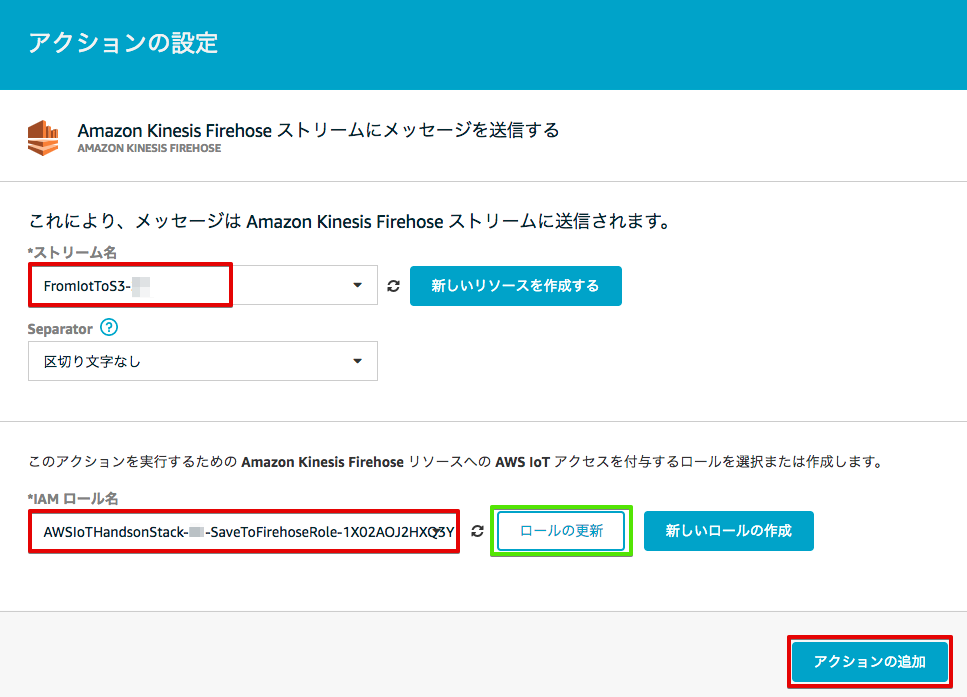
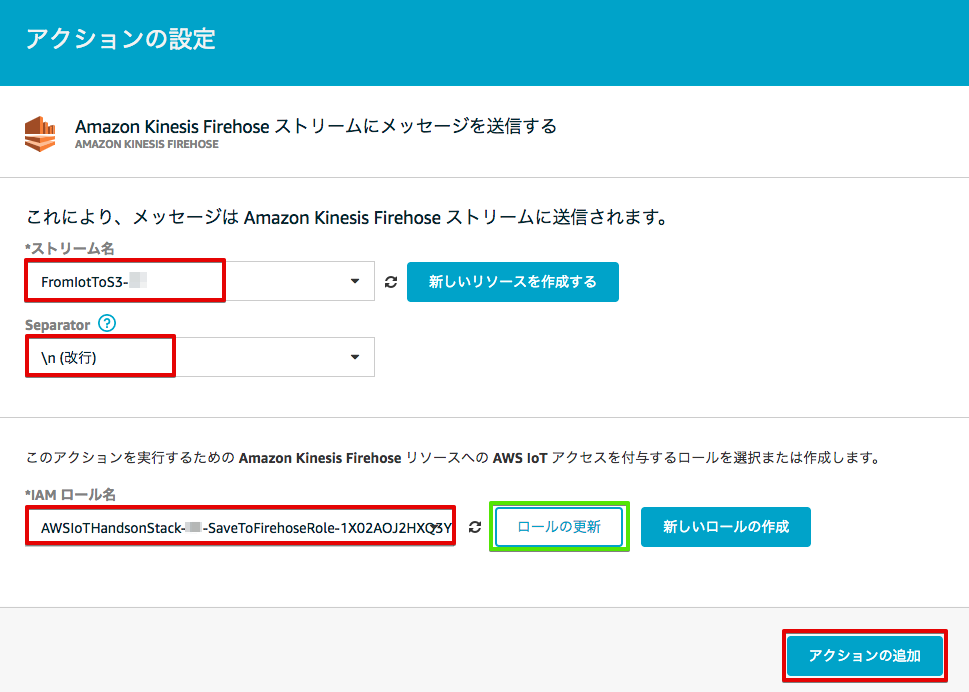
Update

diff --git a/docs/06.rst b/docs/06.rst
@@ -422,6 +422,7 @@ Firehoseに送信するAWS IoT ルールを作成
 設定項目              値
 ===============  ==============================================================================
 ストリーム名	         FromIotToS3-<参加者番号>
+Separator            \\n (改行)
 IAM ロール名          AWSIoTHandsonStack-<参加者番号>-SaveToFirehoseRole-<英数字> (リストから選択)
 ===============  ==============================================================================
 
@@ -451,5 +452,33 @@ S3に保存されたデータを確認する
 サービス一覧から[S3]をクリックして開きます。
 
 .. image:: images/6-s3.png
+
+|
+
+“awsiothandsonstack-<参加者番号>-sensorstoragebucket-<英数字>” のバケットをクリックします。
+
+.. image:: images/6-s3-check.png
+
+|
+
+データが保存されたフォルダまで辿って下さい。
+
+60秒周期でファイルが保存される設定になっているため、ファイルが現れるまで数分かかることがあります。画面を更新しながら、待って下さい。
+
+.. image:: images/6-s3-check-2.png
+
+|
+
+ファイルをクリックすると、ファイルの概要が表示されます。[ダウンロード] をクリックしてダウンロードして内容を確認して下さい。
+
+.. image:: images/6-s3-check-3.png
+
+|
+
+下記の形式のセンサーデータが確認できます。
+
+::
+
+  {"timestamp":"2017-08-21T10:30:18.595Z","illuminance":748,"temperature":519,"place":"place-a","position":"position-<参加者番号>"}
 
 |
